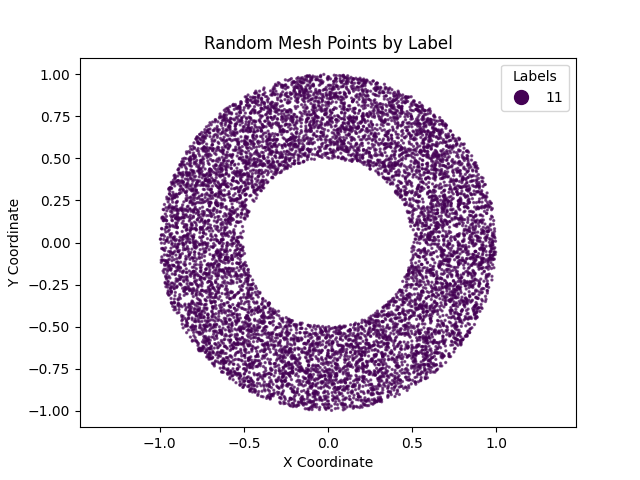
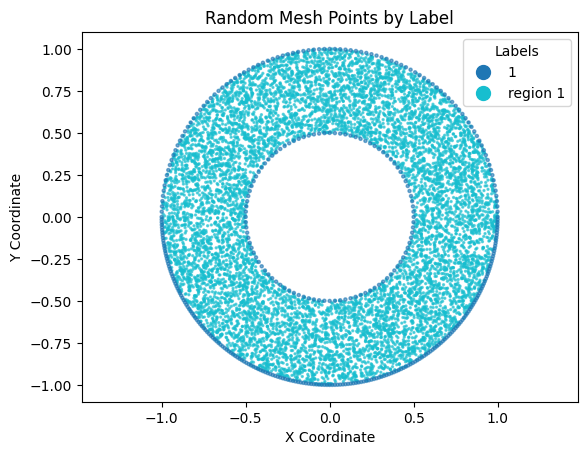
change to the README.md

diff --git a/README.md b/README.md
@@ -14,9 +14,7 @@ RBFMeshGen is a Python package designed for the generation and visualization of 
 To install RBFMeshGen, simply clone this repository and use the setup file to install the package:
 
 ```bash
-git clone https://github.com/yourusername/RBFMeshGen.git
-cd RBFMeshGen
-pip install .
+pip install RBFMeshGen
 ```
 
 
@@ -24,29 +22,34 @@ pip install .
 
 ```python
 import numpy as np
-from RBFMeshGen import RandomMesh, plot_points, Border
+from RBFMeshGen import RandomMesh, plot_mesh, Border
+
 
 # Define a parametric function for a circle
 def circle_parametric_function(radius, t):
     return radius * np.cos(t), radius * np.sin(t)
 
+
 # Define the borders of the mesh
 outer_radius = 1.0
 inner_radius = 0.5
 
-border_outer1 = Border(parametric_function=lambda t: circle_parametric_function(outer_radius, t), label=1, t_start=0, t_end=np.pi)
-border_outer2 = Border(parametric_function=lambda t: circle_parametric_function(outer_radius, t), label=1, t_start=np.pi, t_end=2 * np.pi)
-border_inner1 = Border(parametric_function=lambda t: circle_parametric_function(inner_radius, t), label=1, t_start=0, t_end=2 * np.pi)
+border_outer1 = Border(parametric_function=lambda t: circle_parametric_function(outer_radius, t), label=1, t_start=0,
+                       t_end=np.pi)
+border_outer2 = Border(parametric_function=lambda t: circle_parametric_function(outer_radius, t), label=1,
+                       t_start=np.pi, t_end=2 * np.pi)
+border_inner1 = Border(parametric_function=lambda t: circle_parametric_function(inner_radius, t), label=1, t_start=0,
+                       t_end=2 * np.pi)
 
 # Generate a random mesh
-random_mesh = RandomMesh(border_outer1(100),border_outer2(200), border_inner1(-100))
+random_mesh = RandomMesh(border_outer1(100), border_outer2(200), border_inner1(-100))
 
 # Generate points
 num_points = 10000
 points = random_mesh.generate_points(num_points)
 
 # Plot the points
-plot_points(points)
+plot_mesh(random_mesh)
 ```
 
 ![Output Mesh Visualization](docs/images/Example_1.png)
